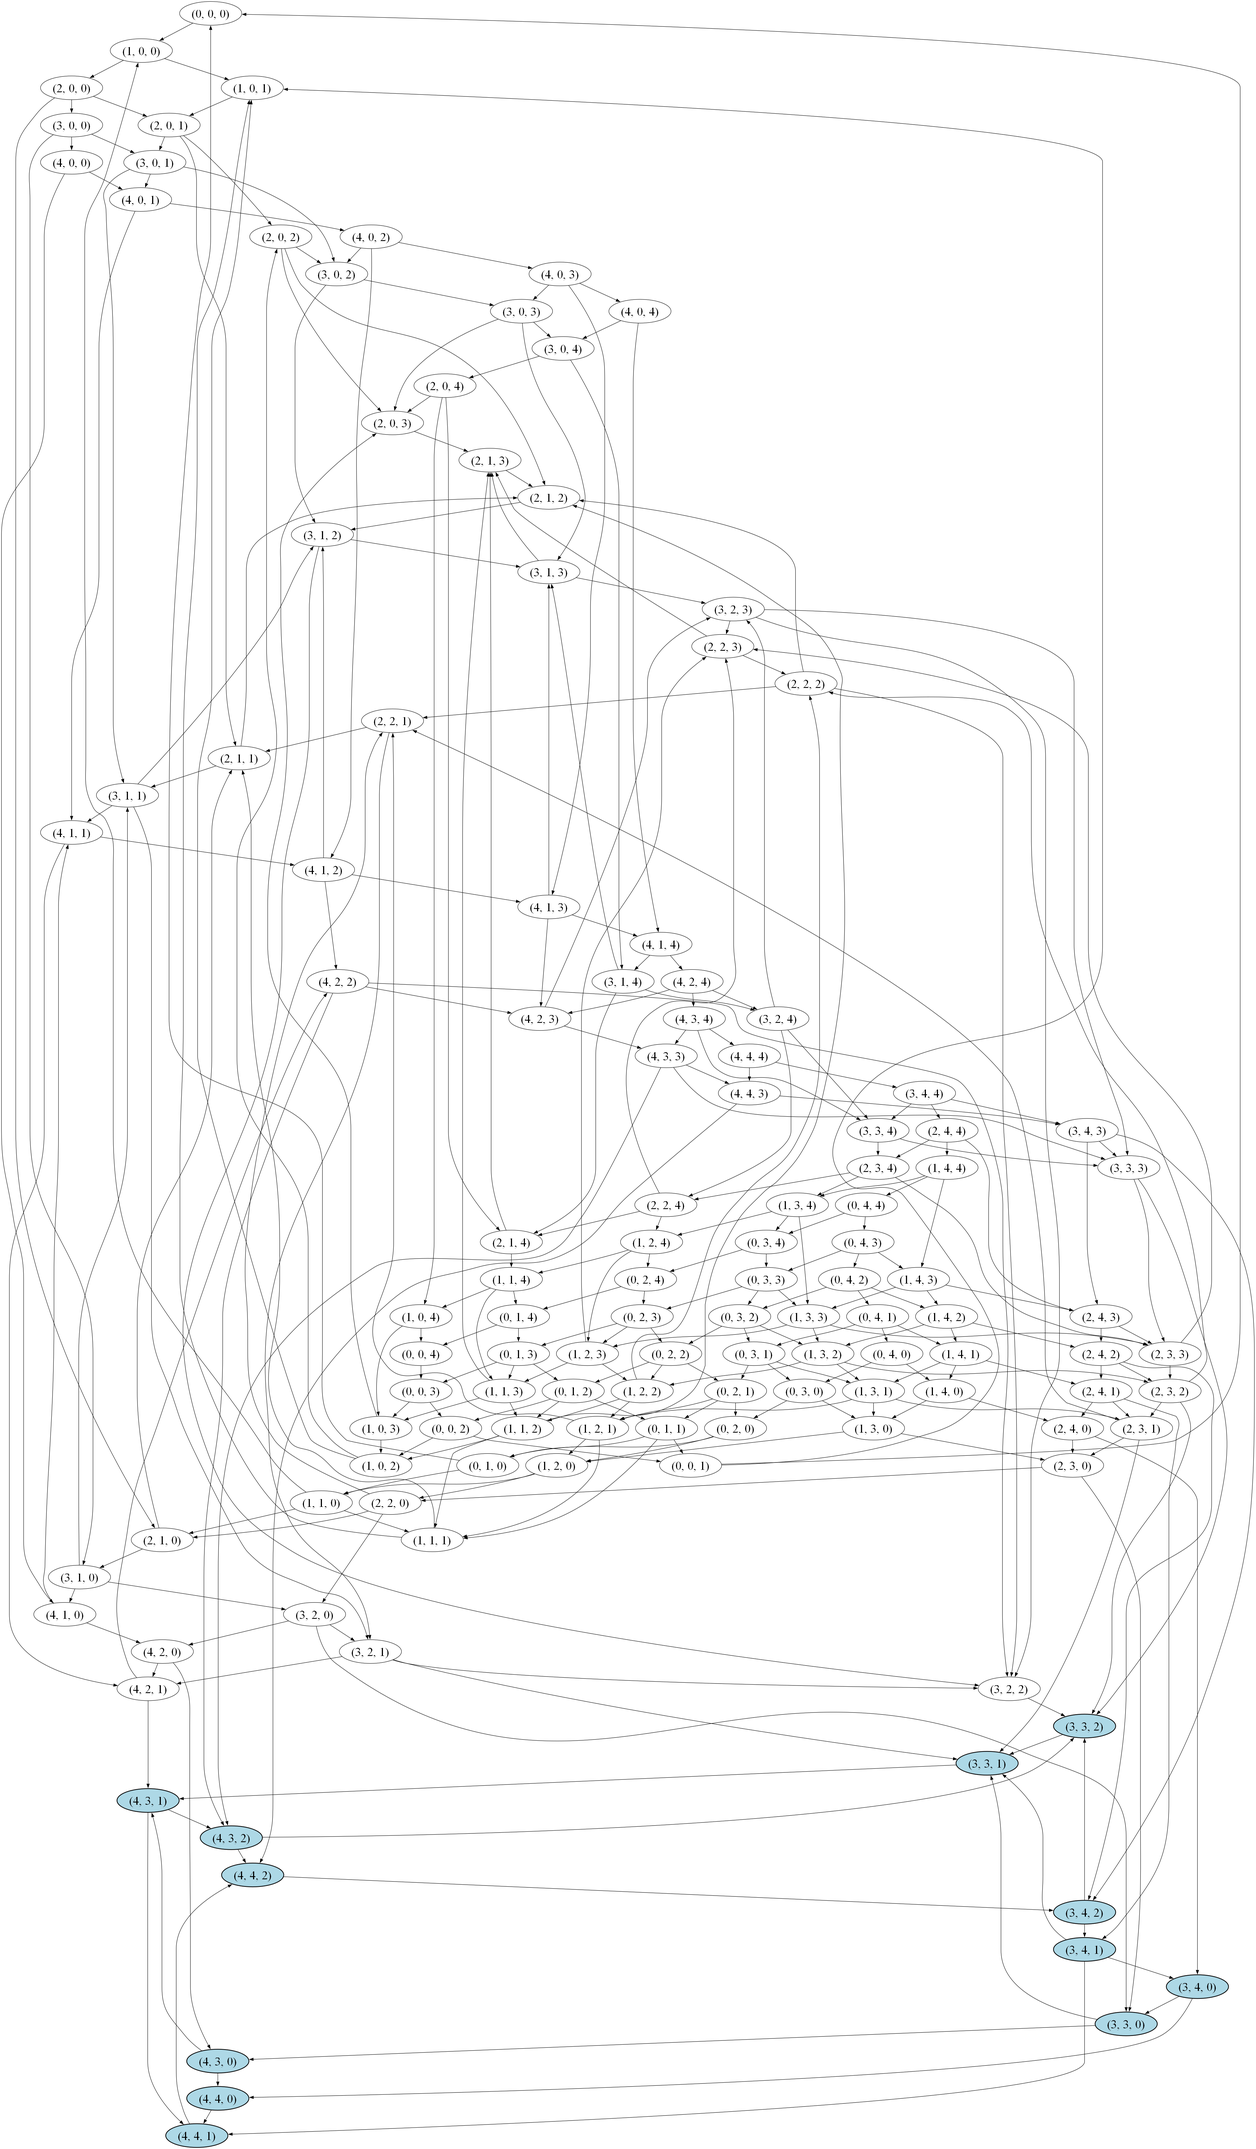
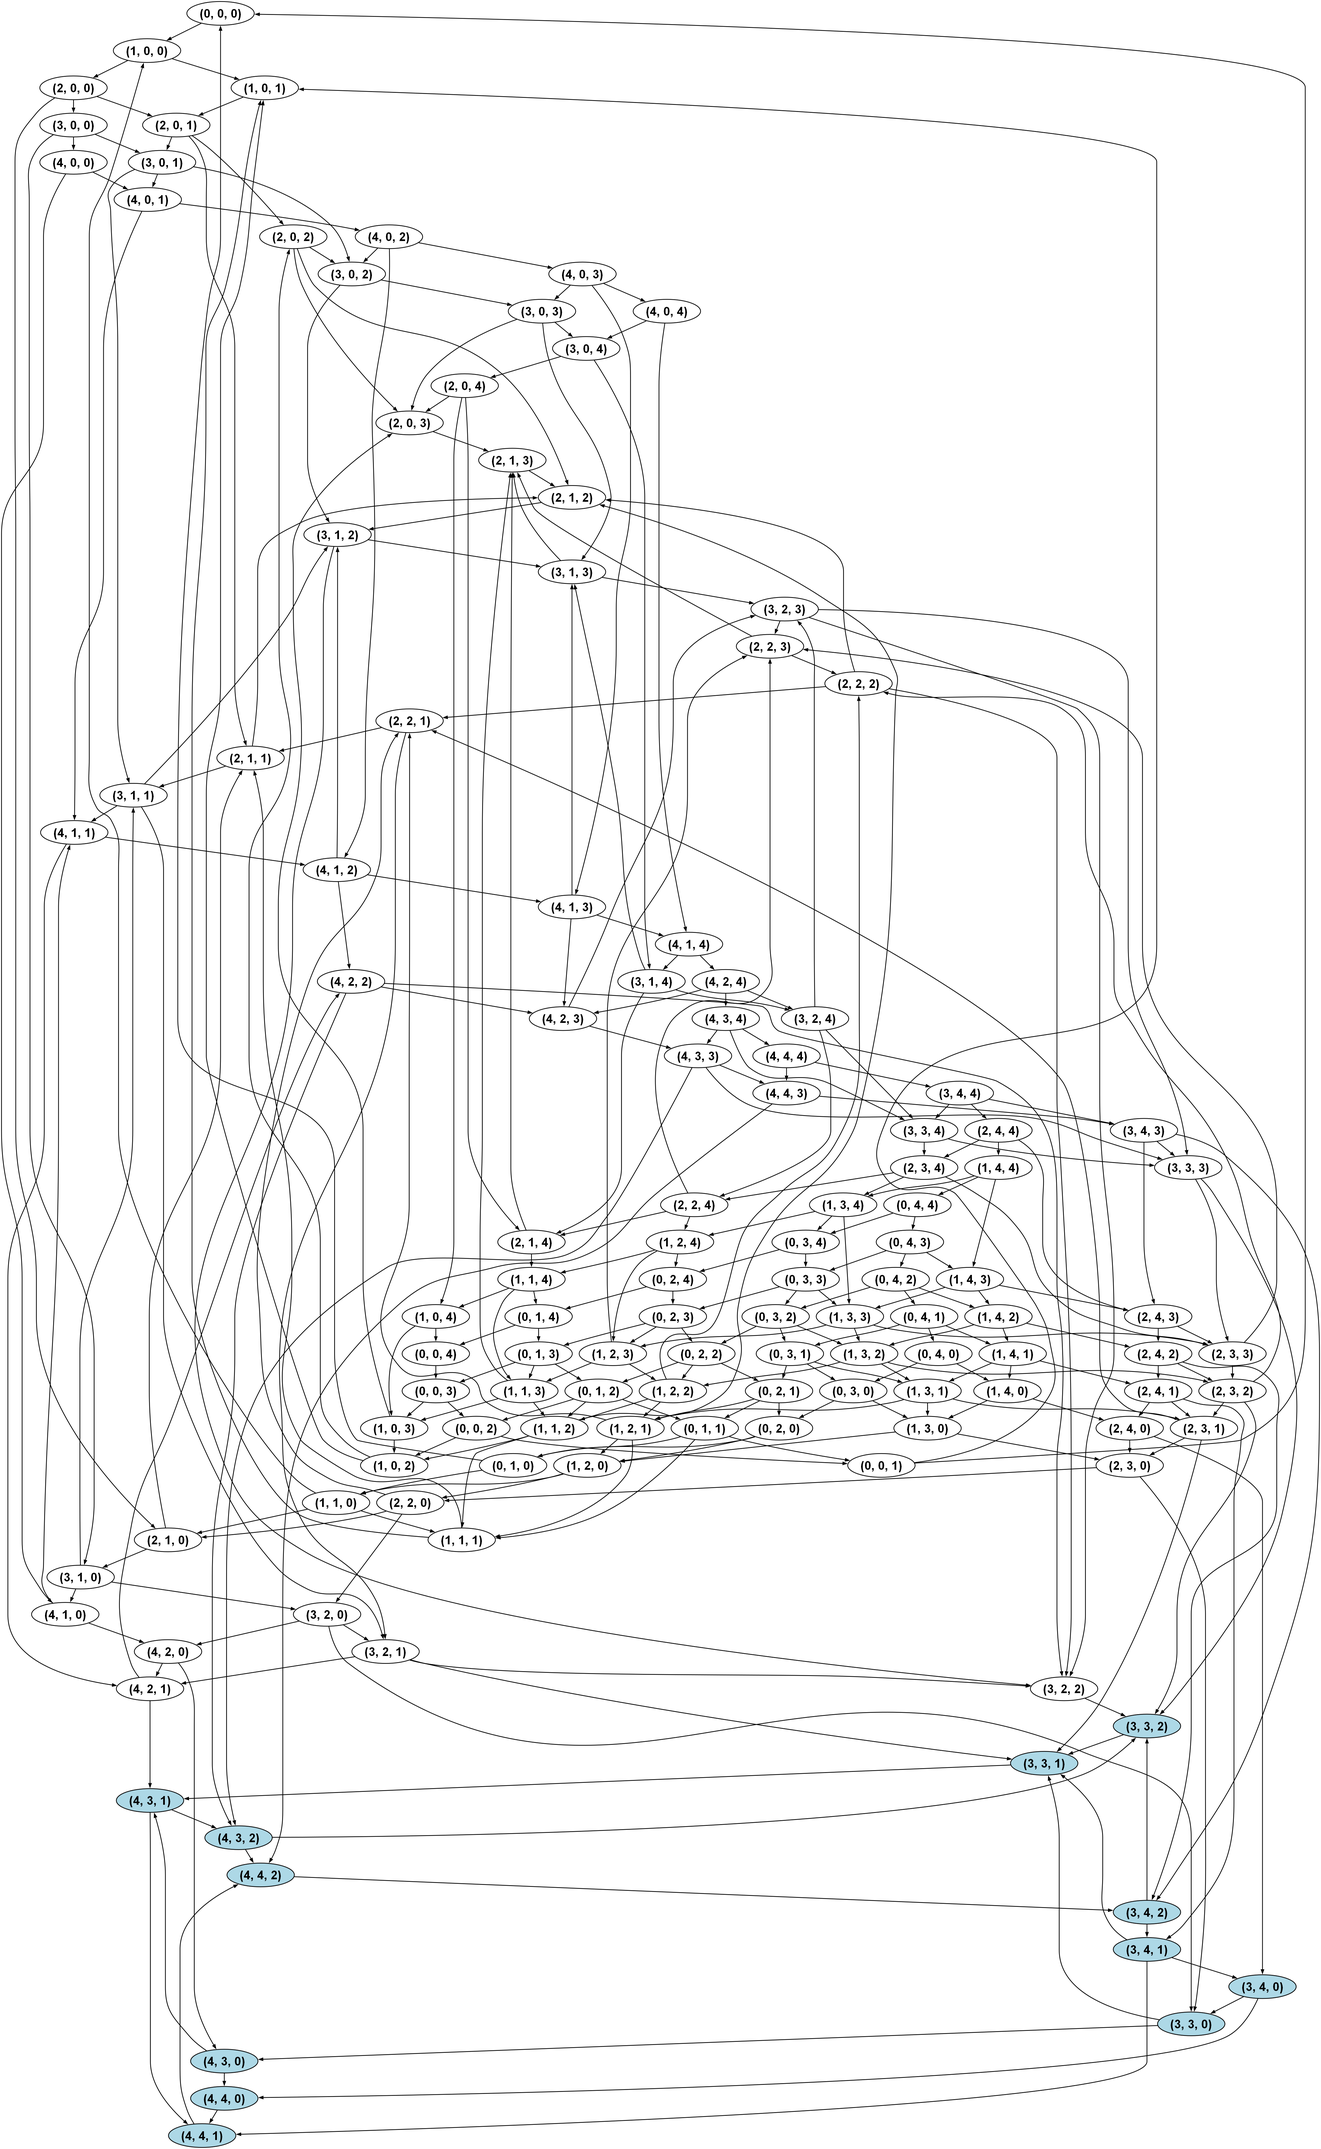
Final version

diff --git a/src/visualization.py b/src/visualization.py
@@ -3,91 +3,59 @@ from src.multivalued_grn import MvGRNParser, StateTransitionGraph
 import networkx as nx
 import json
 
-# # Open and read the file
-# with open('../data/incoherent_ffl1.json', 'r') as f:
-#     coh_ffl = json.load(f)
-#
-# mvgrn = MvGRNParser(coh_ffl.get("network")).parse()
-# stg = StateTransitionGraph(mvgrn)
-#
-# start_state = (0, 0, 0)
-#
-# reachable_nodes = nx.descendants(stg.graph, start_state)
-# reachable_nodes.add(start_state)
-# reachable_subgraph = stg.graph.subgraph(reachable_nodes).copy()
-#
-# # Find all strongly connected components
-# sccs = list(nx.strongly_connected_components(reachable_subgraph))
-#
-# # Identify bottom SCCs
-# bottom_sccs = []
-# for scc in sccs:
-#     has_outgoing = False
-#     for node in scc:
-#         for succ in reachable_subgraph.successors(node):
-#             if succ not in scc:
-#                 has_outgoing = True
-#                 break
-#         if has_outgoing:
-#             break
-#     if not has_outgoing:
-#         bottom_sccs.append(scc)
-#
-# # Now build the pydot graph and highlight
-# pydot_graph = to_pydot(reachable_subgraph)
-# for node in pydot_graph.get_nodes():
-#     node.set_fontsize("32")
-# # Highlight bottom SCC nodes
-# for scc in bottom_sccs:
-#     for node in scc:
-#         # Find the corresponding pydot node
-#         pydot_node = pydot_graph.get_node(str(node))[0]
-#         pydot_node.set_style('filled')
-#         pydot_node.set_fillcolor('lightblue')  # or any color you like
-#         pydot_node.set_penwidth(2)
-#
-# pydot_graph.write_png("../stg/single_input_module.png")
-# print(len(bottom_sccs))
-# print(len(bottom_sccs[0]))
+# Open and read the file
+with open('../data/incoherent_ffl4.json', 'r') as f:
+    coh_ffl = json.load(f)
 
-import matplotlib.pyplot as plt
-import numpy as np
-from matplotlib.colors import LogNorm
+mvgrn = MvGRNParser(coh_ffl.get("network")).parse()
+stg = StateTransitionGraph(mvgrn)
 
-data = [
-    [2.15, 16.90, 37.40, 62.90, 170.67, 283.58],
-    [1.91, 14.36, 18.34, 37.45, 94.51, 167.38],
-    [1.46, 10.96, 14.13, 31.23, 76.81, 139.49],
-    [1.31, 3.59, 8.16, 15.15, 30.30, 44.93],
-    [0.53, 2.70, 6.79, 13.13, 19.96, 37.64],
-]
+start_state = (0, 0, 0)
 
-col_labels = ['567', '1008', '1792', '2800', '4375', '6624']
-row_labels = ['12', '10', '8', '6', '4']
+reachable_nodes = nx.descendants(stg.graph, start_state)
+reachable_nodes.add(start_state)
+reachable_subgraph = stg.graph.subgraph(reachable_nodes).copy()
 
-data_array = np.array(data)
+# Find all strongly connected components
+sccs = list(nx.strongly_connected_components(reachable_subgraph))
 
-fig, ax = plt.subplots(dpi=300)
-cax = ax.imshow(data_array, cmap='RdYlGn_r', norm=LogNorm(vmin=np.min(data_array), vmax=np.max(data_array)))
+# Identify bottom SCCs
+bottom_sccs = []
+for scc in sccs:
+    has_outgoing = False
+    for node in scc:
+        for succ in reachable_subgraph.successors(node):
+            if succ not in scc:
+                has_outgoing = True
+                break
+        if has_outgoing:
+            break
+    if not has_outgoing:
+        bottom_sccs.append(scc)
 
-# Show all ticks and label them
-ax.set_xticks(np.arange(len(col_labels)))
-ax.set_yticks(np.arange(len(row_labels)))
-ax.set_xticklabels(col_labels, fontsize=9)
-ax.set_yticklabels(row_labels, fontsize=9)
+# Now build the pydot graph and highlight
+pydot_graph = to_pydot(reachable_subgraph)
 
-# Rotate x labels
-plt.xticks(rotation=0)
+pydot_graph.set_prog("dot")
+# Customize node appearance
+for node in pydot_graph.get_nodes():
+    node.set_fontname("Helvetica-Bold")
+    node.set_fontsize("32")
+    node.set_penwidth(2)
 
-# Annotate cells with the data
-for i in range(len(row_labels)):
-    for j in range(len(col_labels)):
-        ax.text(j, i, f"{data[i][j]:.2f}", ha='center', va='center', color='black' if 200 > data[i][j] > 1 else "white", fontsize=8, fontweight='bold')
+# Customize edge appearance
+for edge in pydot_graph.get_edges():
+    edge.set_penwidth(2)
 
-# Labels and title
-ax.set_xlabel("Size of state space", fontsize=11)
-ax.set_ylabel("Number of APs in formula", fontsize=11)
-ax.set_title("Computation time (s) for input instances", fontsize=12)
 
-#plt.tight_layout()
-plt.show()
+# Highlight bottom SCC nodes
+for scc in bottom_sccs:
+    for node in scc:
+        # Find the corresponding pydot node
+        pydot_node = pydot_graph.get_node(str(node))[0]
+        pydot_node.set_style('filled')
+        pydot_node.set_fillcolor('lightblue')  # or any color you like
+
+pydot_graph.write_png("../stg/incoherent_ffl4.png")
+print(len(bottom_sccs))
+print(len(bottom_sccs[0]))

diff --git a/src/ctl_formulae.py b/src/ctl_formulae.py
@@ -1,4 +1,5 @@
 from abc import ABC, abstractmethod
+from math import inf
 from typing import List
 from itertools import product
 from kripke_structure import KripkeStructure
@@ -22,10 +23,9 @@ class StateFormula(ABC):
         """
         Transforms the formula into an equivalent form without explicit negations.
 
-        This method recursively replaces negated formulas with their logically
-        equivalent forms using De Morgan’s laws and operator dualities, eliminating the
-        use of the Negation class entirely. The returned formula is guaranteed not to
-        contain any instances of Negation.
+        This method recursively replaces negated formulas with their logically equivalent
+        forms using De Morgan’s laws, eliminating the use of the Negation class entirely.
+        The returned formula is guaranteed not to contain any instances of Negation.
 
         @return StateFormula: A logically equivalent formula with all negations eliminated.
         """
@@ -48,7 +48,7 @@ class StateFormula(ABC):
         Evaluates the formula within the given Kripke structure.
 
         @param ks: The Kripke structure over which the formula is evaluated.
-        @return None: The function modifies formulae_evaluations in place.
+        @return None: The function modifies Kripke structure in place.
         """
         ...
 
@@ -75,9 +75,8 @@ class AtomicFormula(StateFormula):
         """
         Returns the logical negation of the atomic formula.
 
-        This method constructs a new formula that represents the logical negation
-        of the current one. It does not eliminate the negation, but returns a
-        syntactic representation that can later be transformed via eliminate_negation().
+        This method recursively constructs a new formula that represents the logical negation
+        of the current one.
 
         @return AtomicFormula: A formula logically equivalent to the negation of the current one.
         """
@@ -93,22 +92,22 @@ class AtomicFormula(StateFormula):
 
     def evaluate(self, ks: KripkeStructure) -> None:
         """
-        Evaluates the atomic formula in a given Kripke structure. Updates formulae_evaluations.
+        Evaluates the atomic formula in a given Kripke structure. Updates Kripke structure.
 
         @param ks: The Kripke structure to evaluate against.
         """
         dov = self.compute_dov(ks.stg.variables)
         co_dov = self.compute_dov_complement(dov, ks.stg.variables)
         dov_b, co_dov_b = get_border_states(dov, list(ks.stg.variables.values()))
-        max_depth = find_extreme_depth(dov, co_dov_b, list(ks.stg.variables.values()))
-        max_dist = find_extreme_depth(co_dov, dov_b, list(ks.stg.variables.values()))
+        max_dov_depth = find_extreme_depth(dov, co_dov_b, list(ks.stg.variables.values()))
+        max_co_dov_depth = find_extreme_depth(co_dov, dov_b, list(ks.stg.variables.values()))
         for state in ks.stg.states:
             if state in dov:
                 wd = weighted_distance(state, co_dov_b, list(ks.stg.variables.values()))
-                ks.quantitative_labeling[state][repr(self)] = wd / max_depth if max_depth > 0 else 0
+                ks.quantitative_labeling[state][repr(self)] = wd / max_dov_depth if max_dov_depth != inf else 1
             else:
                 wd = weighted_distance(state, dov_b, list(ks.stg.variables.values()))
-                ks.quantitative_labeling[state][repr(self)] = -wd / max_dist if max_depth > 0 else 0
+                ks.quantitative_labeling[state][repr(self)] = -wd / max_co_dov_depth if max_co_dov_depth != inf else -1
 
     @staticmethod
     def compute_dov_complement(dov, max_activities) -> SubspaceType:

diff --git a/src/test/mvgrn_test.py b/src/test/mvgrn_test.py
@@ -1,6 +1,5 @@
 import unittest
-from pathlib import Path
-from src.multivalued_grn import MvGRNParser, StateTransitionGraph, MultivaluedGRN, is_context_satisfied
+from multivalued_grn import MvGRNParser, StateTransitionGraph, MultivaluedGRN
 
 
 class TestStateTransitionGraph(unittest.TestCase):
@@ -95,13 +94,13 @@ class TestStateTransitionGraph(unittest.TestCase):
         self.stg = None
 
     def test_parse_valid_data(self):
-        parser = MvGRNParser(self.incoherent_ffl)
-        self.grn = parser.parse()
-        self.assertIsInstance(self.grn, MultivaluedGRN)
-        self.assertEqual(set(self.grn.variables.keys()), {"X", "Y", "Z"})
+        parser = MvGRNParser(self.incoherent_ffl.get("network"))
+        self.incoherent_ffl = parser.parse()
+        self.assertIsInstance(self.incoherent_ffl, MultivaluedGRN)
+        self.assertEqual(set(self.incoherent_ffl.variables.keys()), {"X", "Y", "Z"})
 
     def test_successor_generation_consistency(self):
-        parser = MvGRNParser(self.toggle_switch)
+        parser = MvGRNParser(self.toggle_switch.get("network"))
         self.grn = parser.parse()
         self.assertIsInstance(self.grn, MultivaluedGRN)
         self.assertEqual(set(self.grn.variables.keys()), {"A", "B"})
@@ -128,16 +127,6 @@ class TestStateTransitionGraph(unittest.TestCase):
         assert set(self.stg.graph.nodes) == set(successors.keys()), \
             "Mismatch in expected and actual nodes in the state transition graph"
 
-
-    def test_is_context_satisfied(self):
-        regulation = self.incoherent_ffl.get("network").get("regulations")[2]
-        regulators = regulation.get("regulators")
-        contexts = regulation.get("contexts")
-        self.assertTrue(is_context_satisfied(contexts[0].get("intervals"), regulators, (4, 2)))
-        self.assertTrue(is_context_satisfied(contexts[2].get("intervals"), regulators, (2, 0)))
-        self.assertTrue(is_context_satisfied(contexts[7].get("intervals"), regulators, (4, 4)))
-        self.assertFalse(is_context_satisfied(contexts[0].get("intervals"), regulators, (3, 4)))
-        self.assertFalse(is_context_satisfied(contexts[4].get("intervals"), regulators, (3, 2)))
 
 
 if __name__ == '__main__':

diff --git a/src/test/satisfaction_degree_test.py b/src/test/satisfaction_degree_test.py
@@ -1,5 +1,5 @@
 import unittest
-from src.weighted_distance import weighted_distance, find_extreme_depth, get_border_states
+from weighted_distance import weighted_distance, get_border_states
 from itertools import product
 
 
@@ -53,36 +53,6 @@ class TestDistanceFunctions(unittest.TestCase):
         state3 = (4, 6, 3)
         wd = weighted_distance(state3, self.simple_dov_co_border, self.max_activities)
         self.assertEqual(0.125, wd)
-
-    def test_find_extreme_depth_simple_dov(self):
-        depth = find_extreme_depth(self.simple_dov, self.simple_dov_co_border, self.max_activities)
-        self.assertEqual(depth, 0.0)
-
-    def test_find_extreme_depth_intersect_dov(self):
-        depth = find_extreme_depth(self.intersect_dov, self.intersect_dov_co_border, self.max_activities)
-        self.assertEqual(depth, 0.0)
-
-    def test_find_extreme_depth_union_dov(self):
-        depth = find_extreme_depth(self.union_dov, self.union_dov_co_border, self.max_activities)
-        self.assertEqual(depth, 0.0)
-
-    def test_find_extreme_depth_simple_dov_complement(self):
-        """Test depth in the complement of simple_dov using dov_border as reference."""
-        co_dov = self.state_space - self.simple_dov
-        depth = find_extreme_depth(co_dov, self.simple_dov_border, self.max_activities)
-        self.assertEqual(depth, 0.0)
-
-    def test_find_extreme_depth_intersect_dov_complement(self):
-        """Test depth in the complement of intersect_dov using dov_border as reference."""
-        co_dov = self.state_space - self.intersect_dov
-        depth = find_extreme_depth(co_dov, self.intersect_dov_border, self.max_activities)
-        self.assertEqual(depth, 0.0)
-
-    def test_find_extreme_depth_union_dov_complement(self):
-        """Test depth in the complement of union_dov using dov_border as reference."""
-        co_dov = self.state_space - self.union_dov
-        depth = find_extreme_depth(co_dov, self.union_dov_border, self.max_activities)
-        self.assertEqual(depth, 0.0)
 
 
 if __name__ == '__main__':

diff --git a/src/kripke_structure.py b/src/kripke_structure.py
@@ -1,4 +1,4 @@
-from typing import Optional, List, Set
+from typing import List
 from custom_types import StateType, QuantLabelingFnType
 
 
@@ -6,11 +6,12 @@ class KripkeStructure:
     """
     Represents a Kripke Structure used for model checking.
 
-    A Kripke structure consists of a state transition graph (STG) and a set of initial states.
+    A Kripke structure consists of a state transition graph (STG), set of initial states and
+    the quantitative labeling function.
     If no initial states are provided, all states in the transition graph are considered initial.
 
     @param stg: The state transition graph representing the structure.
-    @param labels List of labels of subformulae of the verified formula.
+    @param labels List of labels of all unique subformulae of the verified formula.
     @param init_states: A list of initial states.
     """
     def __init__(self, stg, labels: List[str], init_states: List[StateType]):
@@ -42,15 +43,13 @@ class KripkeStructure:
         """
         return {state: {label: None for label in labels} for state in self.stg.states}
 
-    def model_check(self, subformulae) -> QuantLabelingFnType:
+    def evaluate(self, subformulae) -> QuantLabelingFnType:
         """
-        Performs model checking for a given Kripke structure and subformulae of verified formula.
-        Evaluate each subformula iteratively in the order provided.
+        Evaluates the input subformulas against given Kripke structure in the order provided.
 
         @return: A mapping of states to their evaluation results for each subformula.
         """
         for sf in subformulae:
             sf.evaluate(self)
-            print("Done ", sf)
         return self.quantitative_labeling
 

diff --git a/src/main.py b/src/main.py
@@ -26,6 +26,7 @@ def main():
     parsed_formula = parse_formula(formula_data)
     positive_formula = parsed_formula.eliminate_negation()
     subformulae = positive_formula.get_subformulae()
+    labels = [repr(sf) for sf in subformulae]
 
     # Multivalued Gene Regulatory Network
     network_data = json_data.get("network")
@@ -36,11 +37,10 @@ def main():
     init_states_data = json_data.get("init_states")
     validate_initial_states(init_states_data, mvgrn)
     initial_states = generate_initial_states(init_states_data, network_data.get("variables"))
-    labels = [repr(sf) for sf in subformulae]
 
     # Satisfaction degree computation
     ks = KripkeStructure(stg, labels, initial_states)
-    formulae_evaluations = ks.model_check(subformulae)
+    formulae_evaluations = ks.evaluate(subformulae)
     format_result(formulae_evaluations, ks.init_states, positive_formula)
 
 

diff --git a/src/weighted_distance.py b/src/weighted_distance.py
@@ -88,7 +88,7 @@ def weighted_distance(state: StateType, border: SubspaceType, max_activities: Li
             neighbor_dst = dist + step
             queue.decrease_priority(neighbor, neighbor_dst)
 
-    return float('inf')  # If no border state is found, return infinity
+    return inf  # if no border state is found, return infinity
 
 
 def find_extreme_depth(dov: SubspaceType, co_border: SubspaceType, max_act_values: List[int]) -> float:
@@ -122,5 +122,5 @@ def find_extreme_depth(dov: SubspaceType, co_border: SubspaceType, max_act_value
                 distances[neighbor] = new_distance
                 queue.decrease_priority(neighbor, new_distance)
 
-    extreme = max(distances[state] for state in dov)  # opravit nekonecno
+    extreme = max(distances[state] for state in dov) if distances else inf
     return extreme

diff --git a/src/test/parser_test.py b/src/test/parser_test.py
@@ -1,6 +1,6 @@
 import unittest
-from src.lark_ctl_parser import parse_formula
-from src.ctl_formulae import AtomicProposition, Negation, Union, Intersection, Conjunction, Disjunction, EX, EF, AF, EG, AG, AU, EW
+from lark_ctl_parser import parse_formula
+from ctl_formulae import AtomicProposition, Negation, Union, Intersection, Conjunction, Disjunction, EX, EF, AF, EG, AG, AU, EW
 from lark.exceptions import UnexpectedToken
 
 

diff --git a/src/test/formula_methods_test.py b/src/test/formula_methods_test.py
@@ -1,5 +1,5 @@
 import unittest
-from src.ctl_formulae import AtomicProposition, Negation, Union, Intersection, Conjunction, Disjunction, EX, AX, EF, AF, EG, AG, EU, AU, EW, AW
+from ctl_formulae import AtomicProposition, Negation, Union, Intersection, Conjunction, Disjunction, EX, AX, EF, AF, EG, AG, EU, AU, EW, AW
 from itertools import product
 
 

diff --git a/src/test/priority_queue_test.py b/src/test/priority_queue_test.py
@@ -1,5 +1,5 @@
 import unittest
-from src.priority_queue import MinPriorityQueue, MaxPriorityQueue
+from priority_queue import MinPriorityQueue, MaxPriorityQueue
 
 
 class TestMinPriorityQueue(unittest.TestCase):
